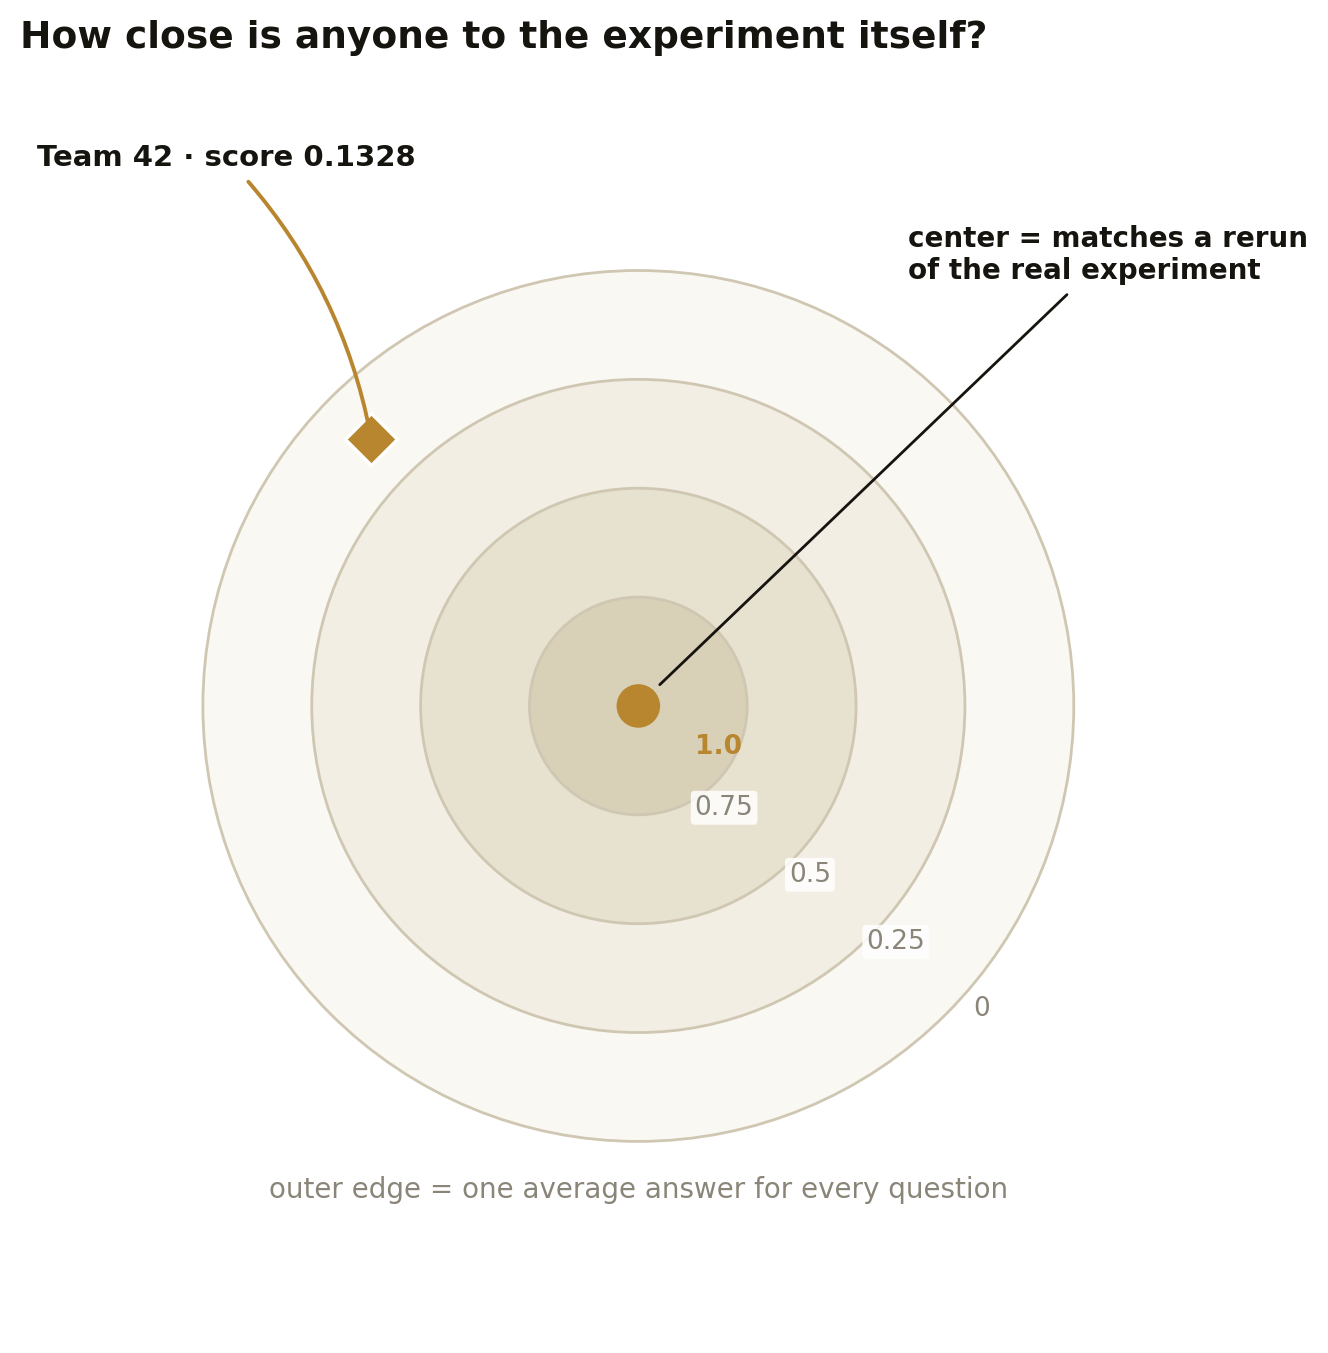
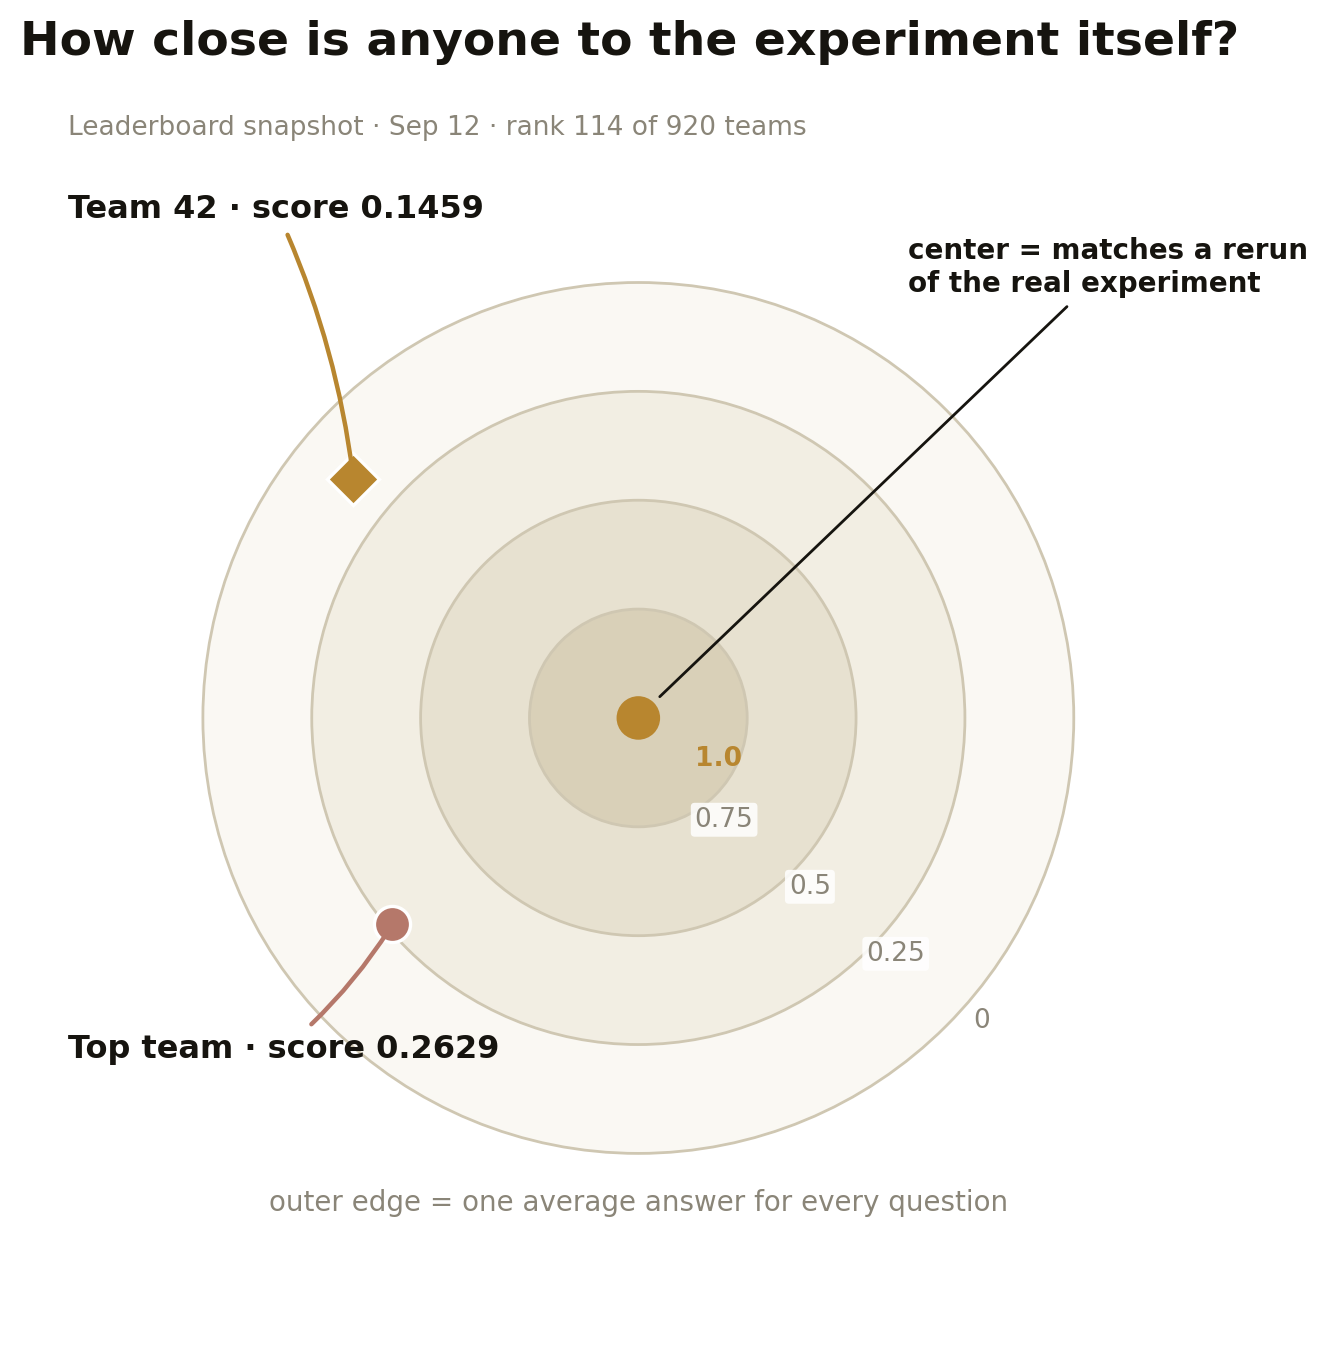
Update VCC leaderboard snapshot

diff --git a/_posts/2026-09-09-predicting-the-unseen-vcc-2026.md b/_posts/2026-09-09-predicting-the-unseen-vcc-2026.md
@@ -6,7 +6,7 @@ author: "Yash Raj"
 categories: [AI, virtual-cell, CRISPRi, single-cell]
 ---
 
-Three weeks into the Arc Institute Virtual Cell Challenge 2026, the leaderboard reads: Team 42, rank 117 of 780. The task is simple to say and hard to do: silence one gene in a cell and predict what the whole cell does next, in cell lines nobody has ever seen perturbed. This note is about what our number means, the first study we can share, and the road to November.
+As of September 12, the Arc Institute Virtual Cell Challenge 2026 leaderboard reads: Team 42, rank 114 of 920 teams. The task is simple to say and hard to do: silence one gene in a cell and predict what the whole cell does next, in cell lines nobody has ever seen perturbed. This note is about what our number means, the first study we can share, and the road to November.
 
 Team 42 is [Linhui Xie](https://www.linkedin.com/in/linhui-xie/), [Yurui Chen](https://www.linkedin.com/in/matcyr96/), Yuxuan Hu, and [me](https://www.linkedin.com/in/yashraj59/). What we are building stays with us until the race ends. What we have learned along the way is worth sharing now.
 
@@ -26,9 +26,9 @@ Both editions use a 300-gene panel. In 2025 everything happened inside one cell 
 
 ## Where we stand
 
-Every entry is scored between two anchors. Zero means no better than giving one average answer for every question. One means matching a rerun of the real experiment. We score 0.1328, and no team we can see is anywhere close to one. Studies published last year found that deep learning models on this problem often fail to beat simple linear baselines, and the leaderboard agrees. The whole field, the largest models included, is still far from the center. That is not a reason to stay out. It is the reason the problem deserves the effort.
+Every entry is scored between two anchors. Zero means no better than giving one average answer for every question. One means matching a rerun of the real experiment. As of September 12, we score 0.1459 and the top team scores 0.2629. No team we can see is anywhere close to one. Studies published last year found that deep learning models on this problem often fail to beat simple linear baselines, and the leaderboard agrees. The whole field, the largest models included, is still far from the center. That is not a reason to stay out. It is the reason the problem deserves the effort.
 
-![A target diagram where the bullseye represents matching a rerun of the experiment and the outer edge represents predicting one average answer, with Team 42 near the outer rings](/fig/vcc-2026-team42/fig2_target.png)
+![A target diagram where the bullseye represents matching a rerun of the experiment and the outer edge represents predicting one average answer, with Team 42 at 0.1459 and the top team at 0.2629](/fig/vcc-2026-team42/fig2_target.png)
 *The center is a rerun of the experiment. The outer edge is one average answer for everything. The whole field, us included, is still near the edge.*
 
 ## Naming the mystery cells
@@ -49,5 +49,5 @@ Three habits the challenge rewards, in one breath: predictions are populations, 
 
 The public leaderboard runs through October 22. Then the three final cell lines are released, entries close November 5, and the official ranking comes from those alone. We will write the post-mortem either way.
 
-![Timeline from the August 20 launch through today, to the October 22 leaderboard close and the November 5 final entry deadline](/fig/vcc-2026-team42/fig5_road.png)
+![Timeline from the August 20 launch through the September 12 update at rank 114 of 920 teams and overall score 0.1459, to the October 22 leaderboard close and the November 5 final entry deadline](/fig/vcc-2026-team42/fig5_road.png)
 *The solid part of the road is behind us. Everything that decides the official ranking is still ahead.*
